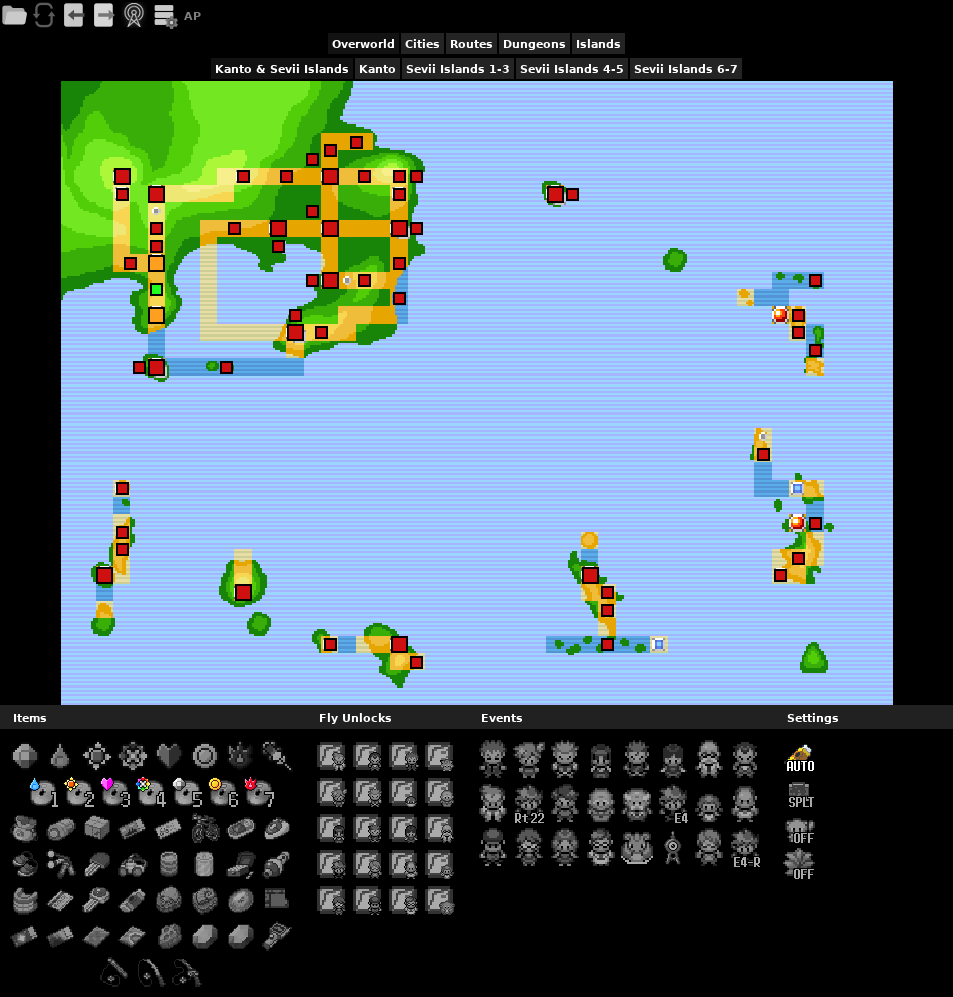
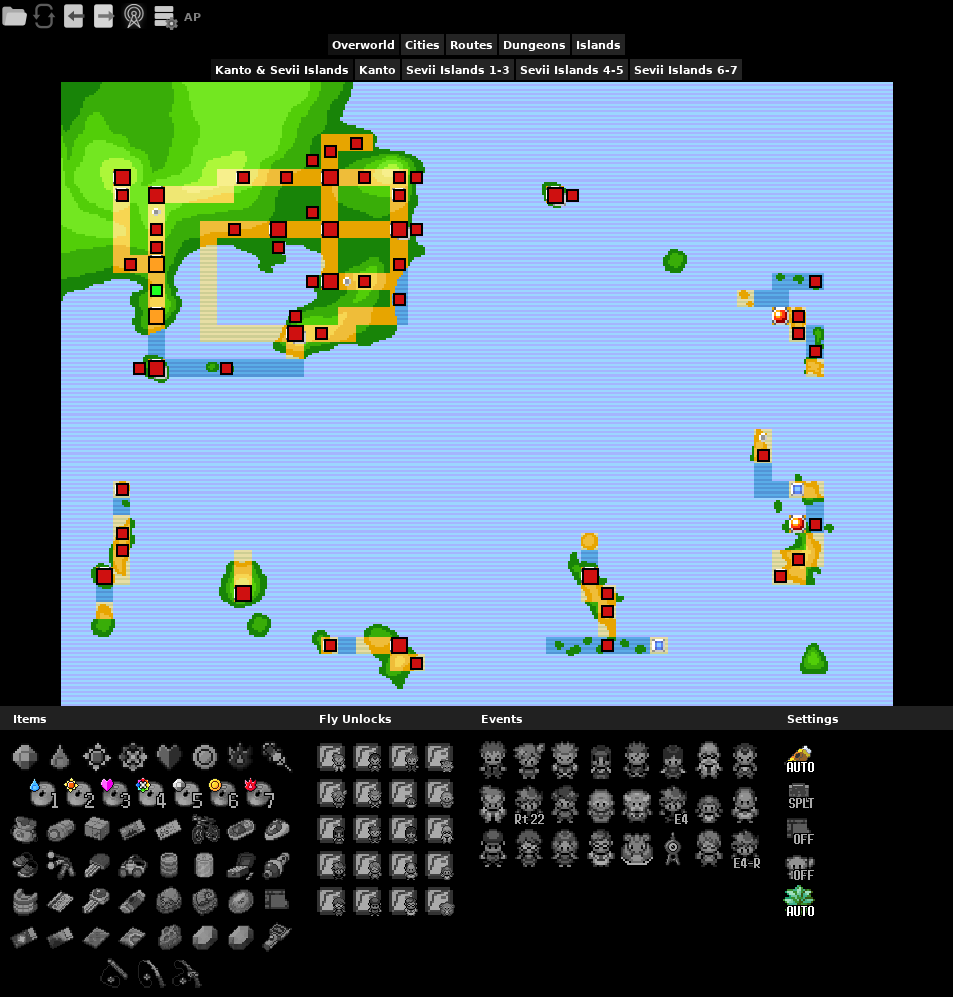
Add Ability to Toggle Encounter Auto Tracking

diff --git a/patch_notes.md b/patch_notes.md
@@ -1,4 +1,8 @@
-# 2.0.2
+# 2.1.0
+## Updates
++ Auto Encounter Tracking can now be toggled on/off through a setting (defaults to on)
++ The icons used for toggling the Pokémon tabs and Pokémon locations have been updated
+
 ## Bug Fixes
 + Fixed an issue where the list used for encounter auto tracking was not reset upon connecting to a different slot
 + Fixed an issue regarding the Route 23 waterfall
